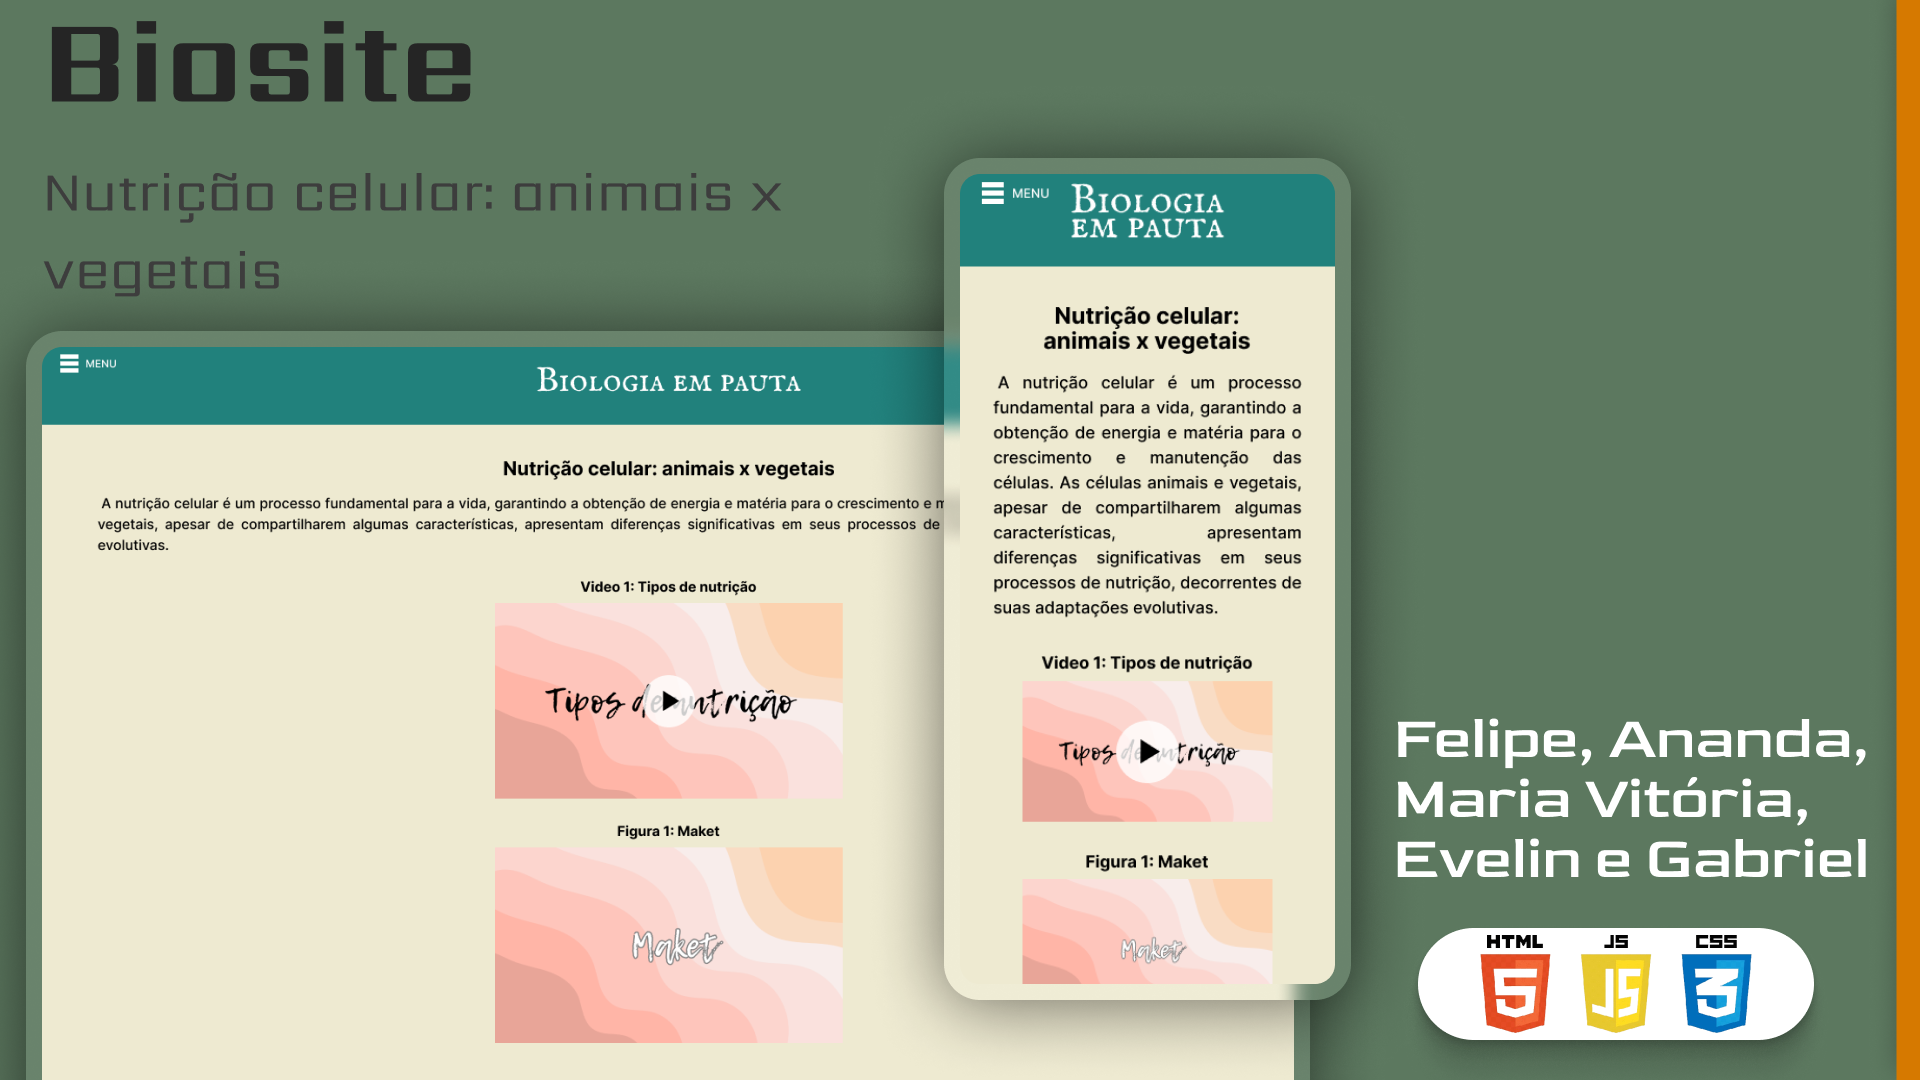
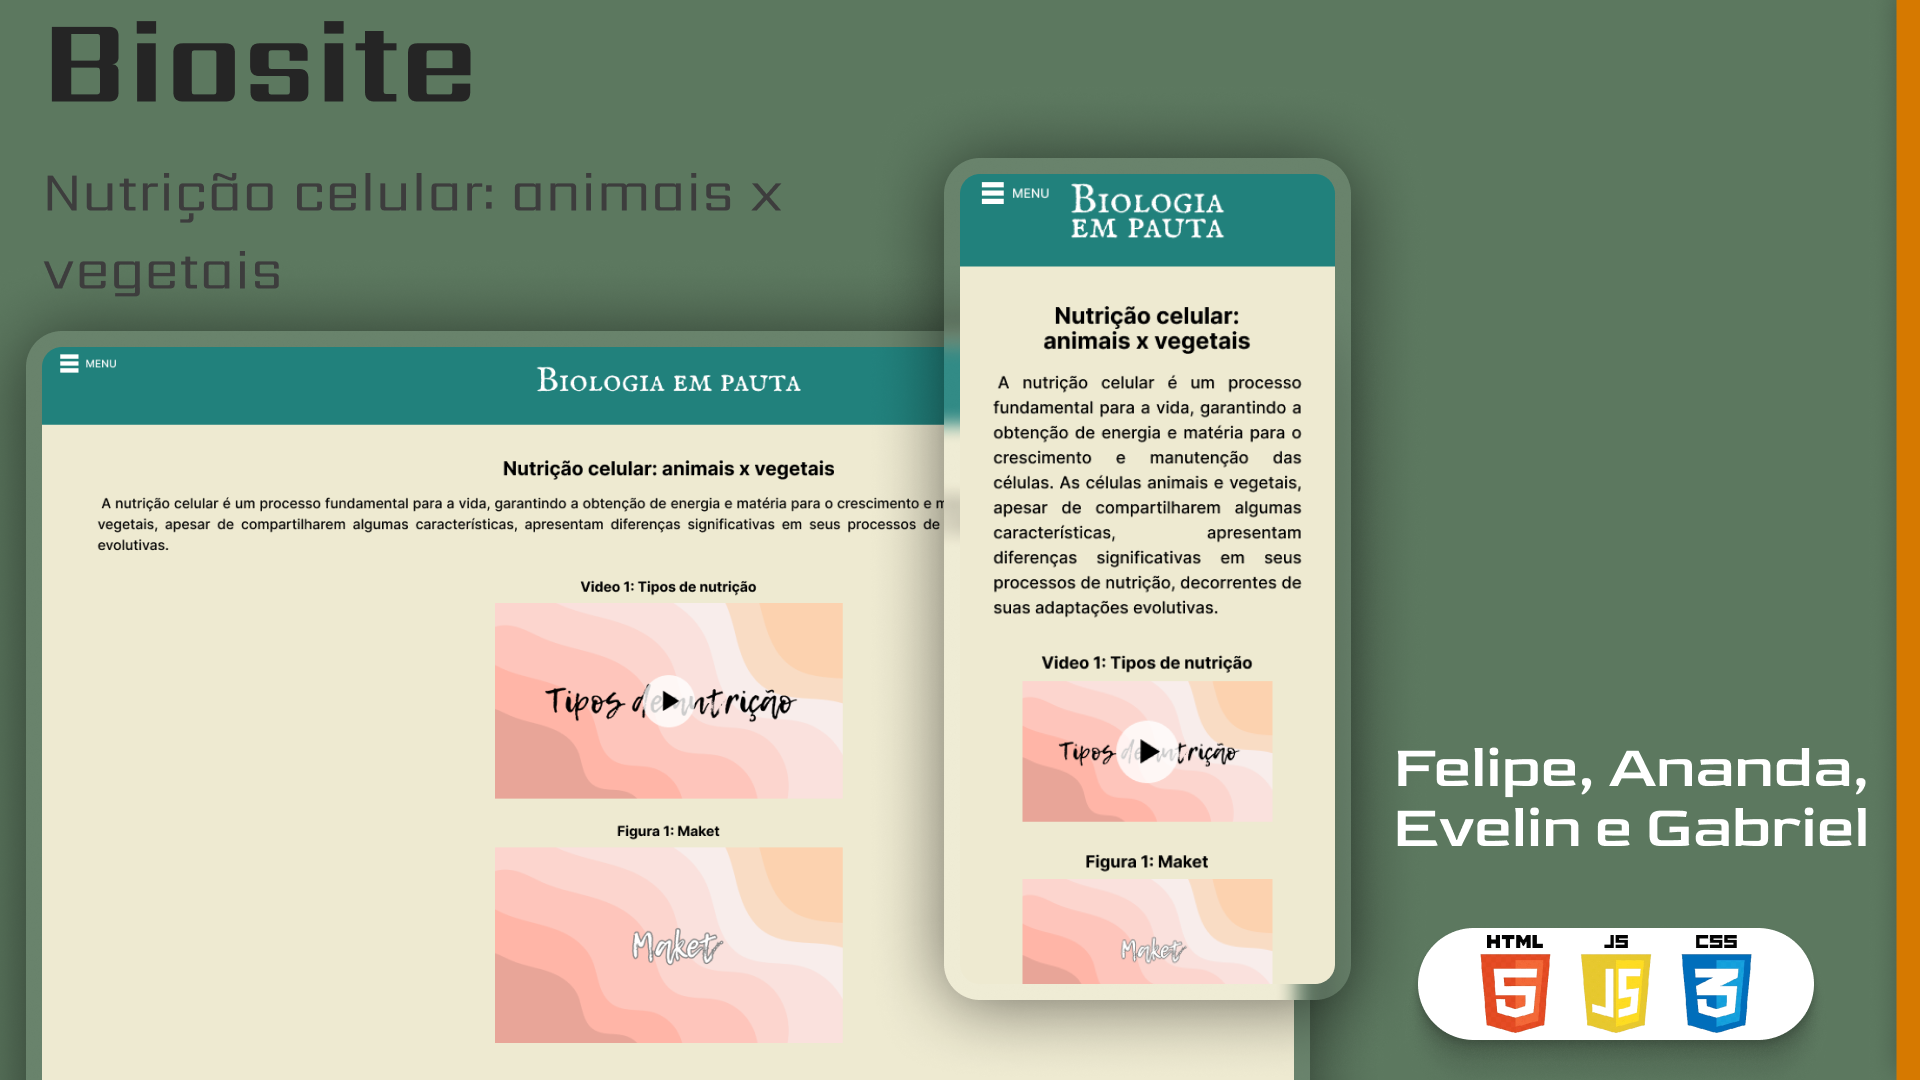
Att

Changed region(s): [[0.7188, 0.6722, 0.9688, 0.825]]

diff --git a/html/Comparativo.html b/html/Comparativo.html
@@ -171,24 +171,6 @@
           </div>
         </div>
       </div>
-
-      <div id="container">
-        <div id="profile">
-          <p>Maria Vitória</p>
-          <img
-            src="../IMAGENS/foto_Vitoria.png"
-            alt="Foto de Maria Vitória."
-          />
-          <div id="social-links">
-            <a href="https://github.com/Oliveira1519" target="_blank" rel="noopener">
-              <ion-icon name="logo-github">.</ion-icon>
-            </a>
-            <a href="https://www.instagram.com/vitoria_o.m123/" target="_blank" rel="noopener">
-              <ion-icon name="logo-instagram">.</ion-icon>
-            </a>
-          </div>
-        </div>
-      </div>
     
     </div>
 

diff --git a/html/NutriAni.html b/html/NutriAni.html
@@ -157,24 +157,6 @@
           </div>
         </div>
       </div>
-
-      <div id="container">
-        <div id="profile">
-          <p>Maria Vitória</p>
-          <img
-            src="../IMAGENS/foto_Vitoria.png"
-            alt="Foto de Maria Vitória."
-          />
-          <div id="social-links">
-            <a href="https://github.com/Oliveira1519" target="_blank" rel="noopener">
-              <ion-icon name="logo-github">.</ion-icon>
-            </a>
-            <a href="https://www.instagram.com/vitoria_o.m123/" target="_blank" rel="noopener">
-              <ion-icon name="logo-instagram">.</ion-icon>
-            </a>
-          </div>
-        </div>
-      </div>
     
     </div>
 

diff --git a/html/NutriVeg.html b/html/NutriVeg.html
@@ -159,24 +159,6 @@
           </div>
         </div>
       </div>
-
-      <div id="container">
-        <div id="profile">
-          <p>Maria Vitória</p>
-          <img
-            src="../IMAGENS/foto_Vitoria.png"
-            alt="Foto de Maria Vitória."
-          />
-          <div id="social-links">
-            <a href="https://github.com/Oliveira1519" target="_blank" rel="noopener">
-              <ion-icon name="logo-github">.</ion-icon>
-            </a>
-            <a href="https://www.instagram.com/vitoria_o.m123/" target="_blank" rel="noopener">
-              <ion-icon name="logo-instagram">.</ion-icon>
-            </a>
-          </div>
-        </div>
-      </div>
     
     </div>
 

diff --git a/html/Relatorios.html b/html/Relatorios.html
@@ -368,24 +368,6 @@
           </div>
         </div>
       </div>
-
-      <div id="container">
-        <div id="profile">
-          <p>Maria Vitória</p>
-          <img
-            src="../IMAGENS/foto_Vitoria.png"
-            alt="Foto de Maria Vitória."
-          />
-          <div id="social-links">
-            <a href="https://github.com/Oliveira1519" target="_blank" rel="noopener">
-              <ion-icon name="logo-github">.</ion-icon>
-            </a>
-            <a href="https://www.instagram.com/vitoria_o.m123/" target="_blank" rel="noopener">
-              <ion-icon name="logo-instagram">.</ion-icon>
-            </a>
-          </div>
-        </div>
-      </div>
     
     </div>
 

diff --git a/index.html b/index.html
@@ -147,24 +147,6 @@
           </div>
         </div>
       </div>
-
-      <div id="container">
-        <div id="profile">
-          <p>Maria Vitória</p>
-          <img
-            src="./IMAGENS/foto_Vitoria.png"
-            alt="Foto de Maria Vitória."
-          />
-          <div id="social-links">
-            <a href="https://github.com/Oliveira1519" target="_blank" rel="noopener">
-              <ion-icon name="logo-github">.</ion-icon>
-            </a>
-            <a href="https://www.instagram.com/vitoria_o.m123/" target="_blank" rel="noopener">
-              <ion-icon name="logo-instagram">.</ion-icon>
-            </a>
-          </div>
-        </div>
-      </div>
     
     </div>
 
